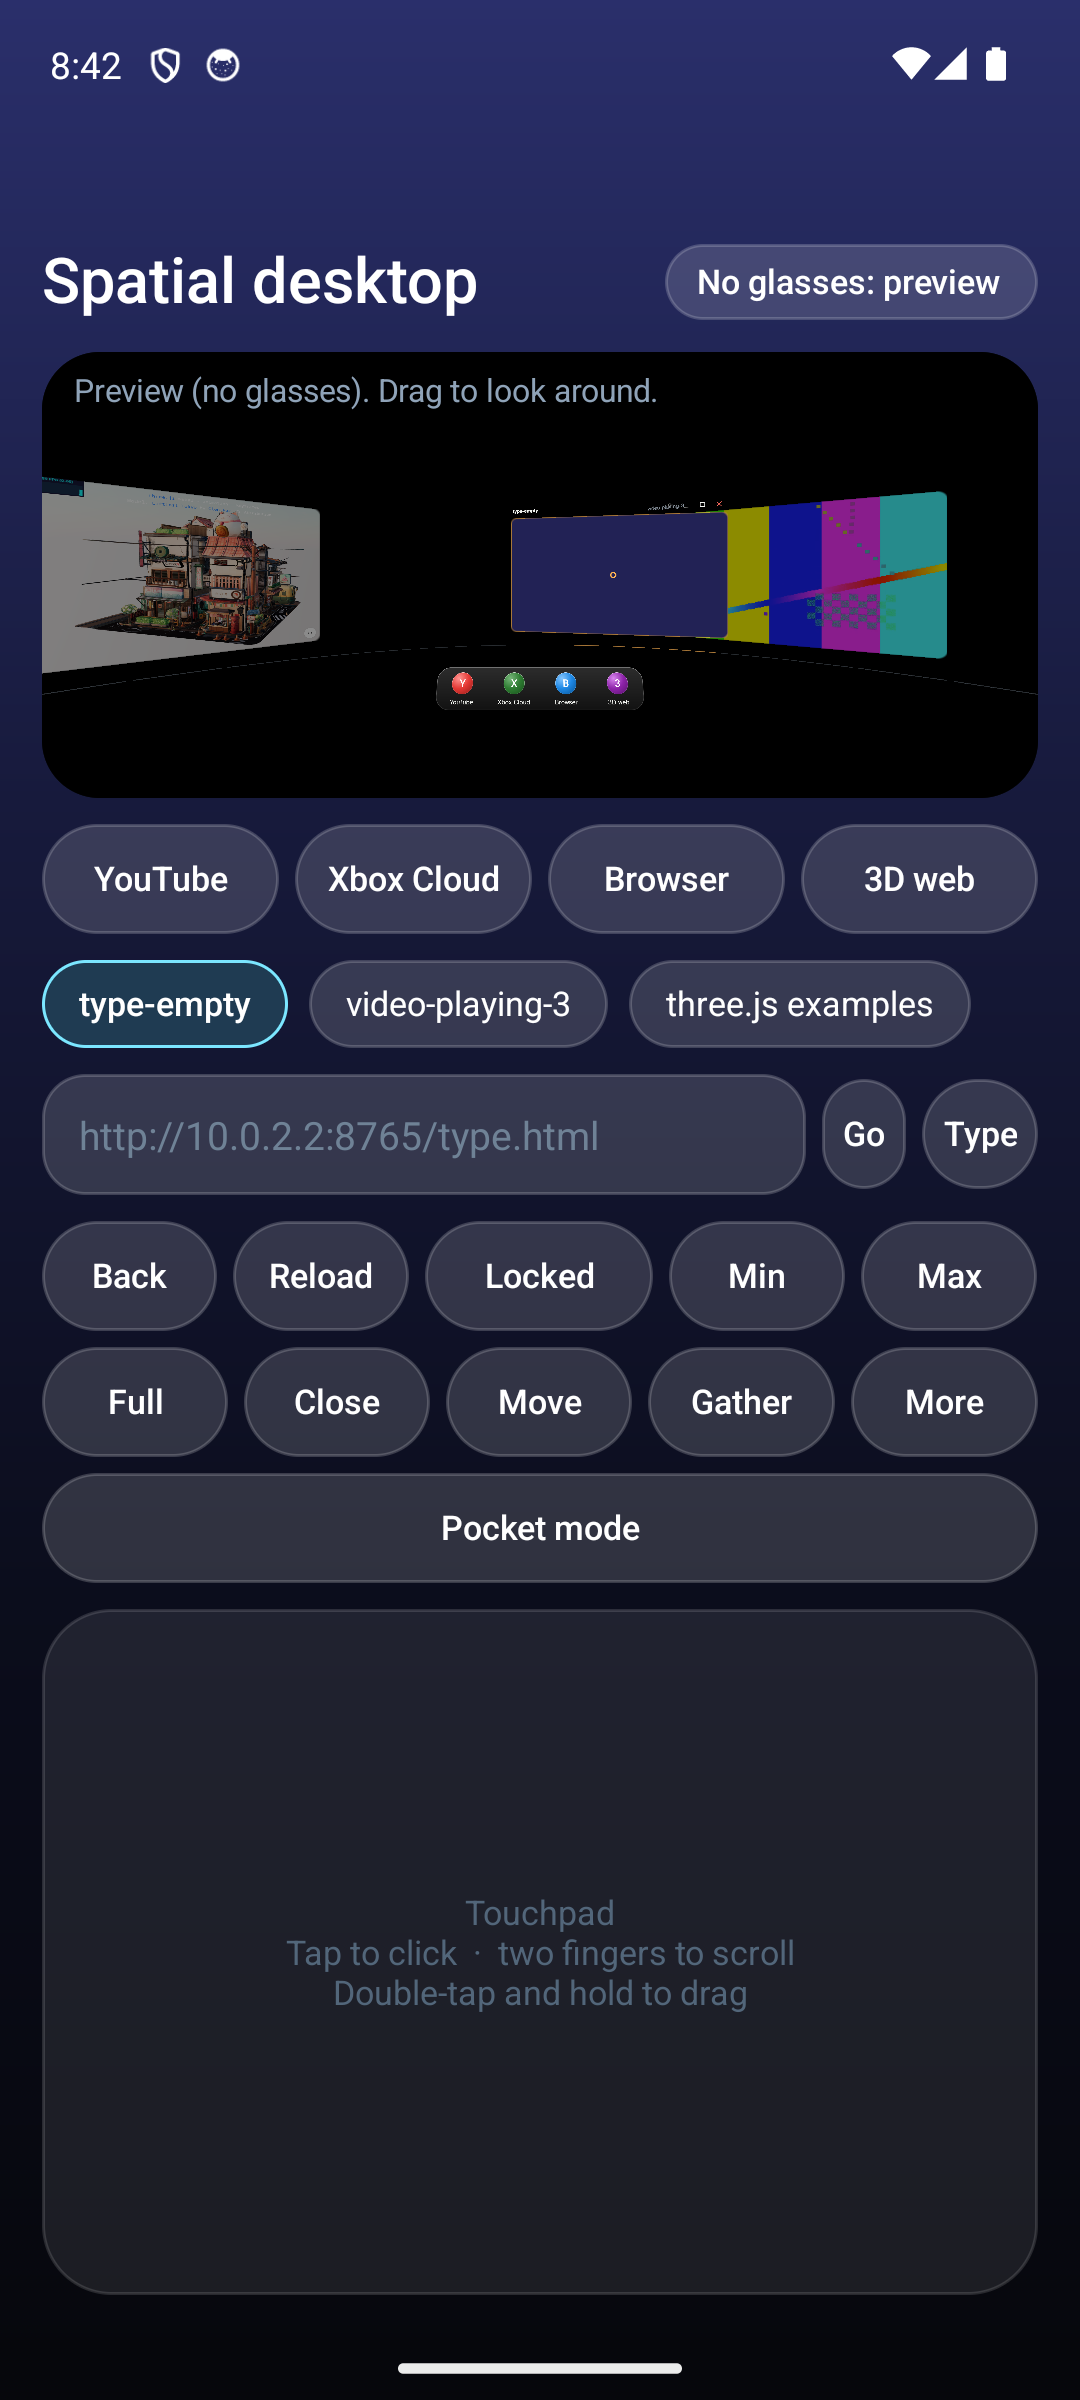
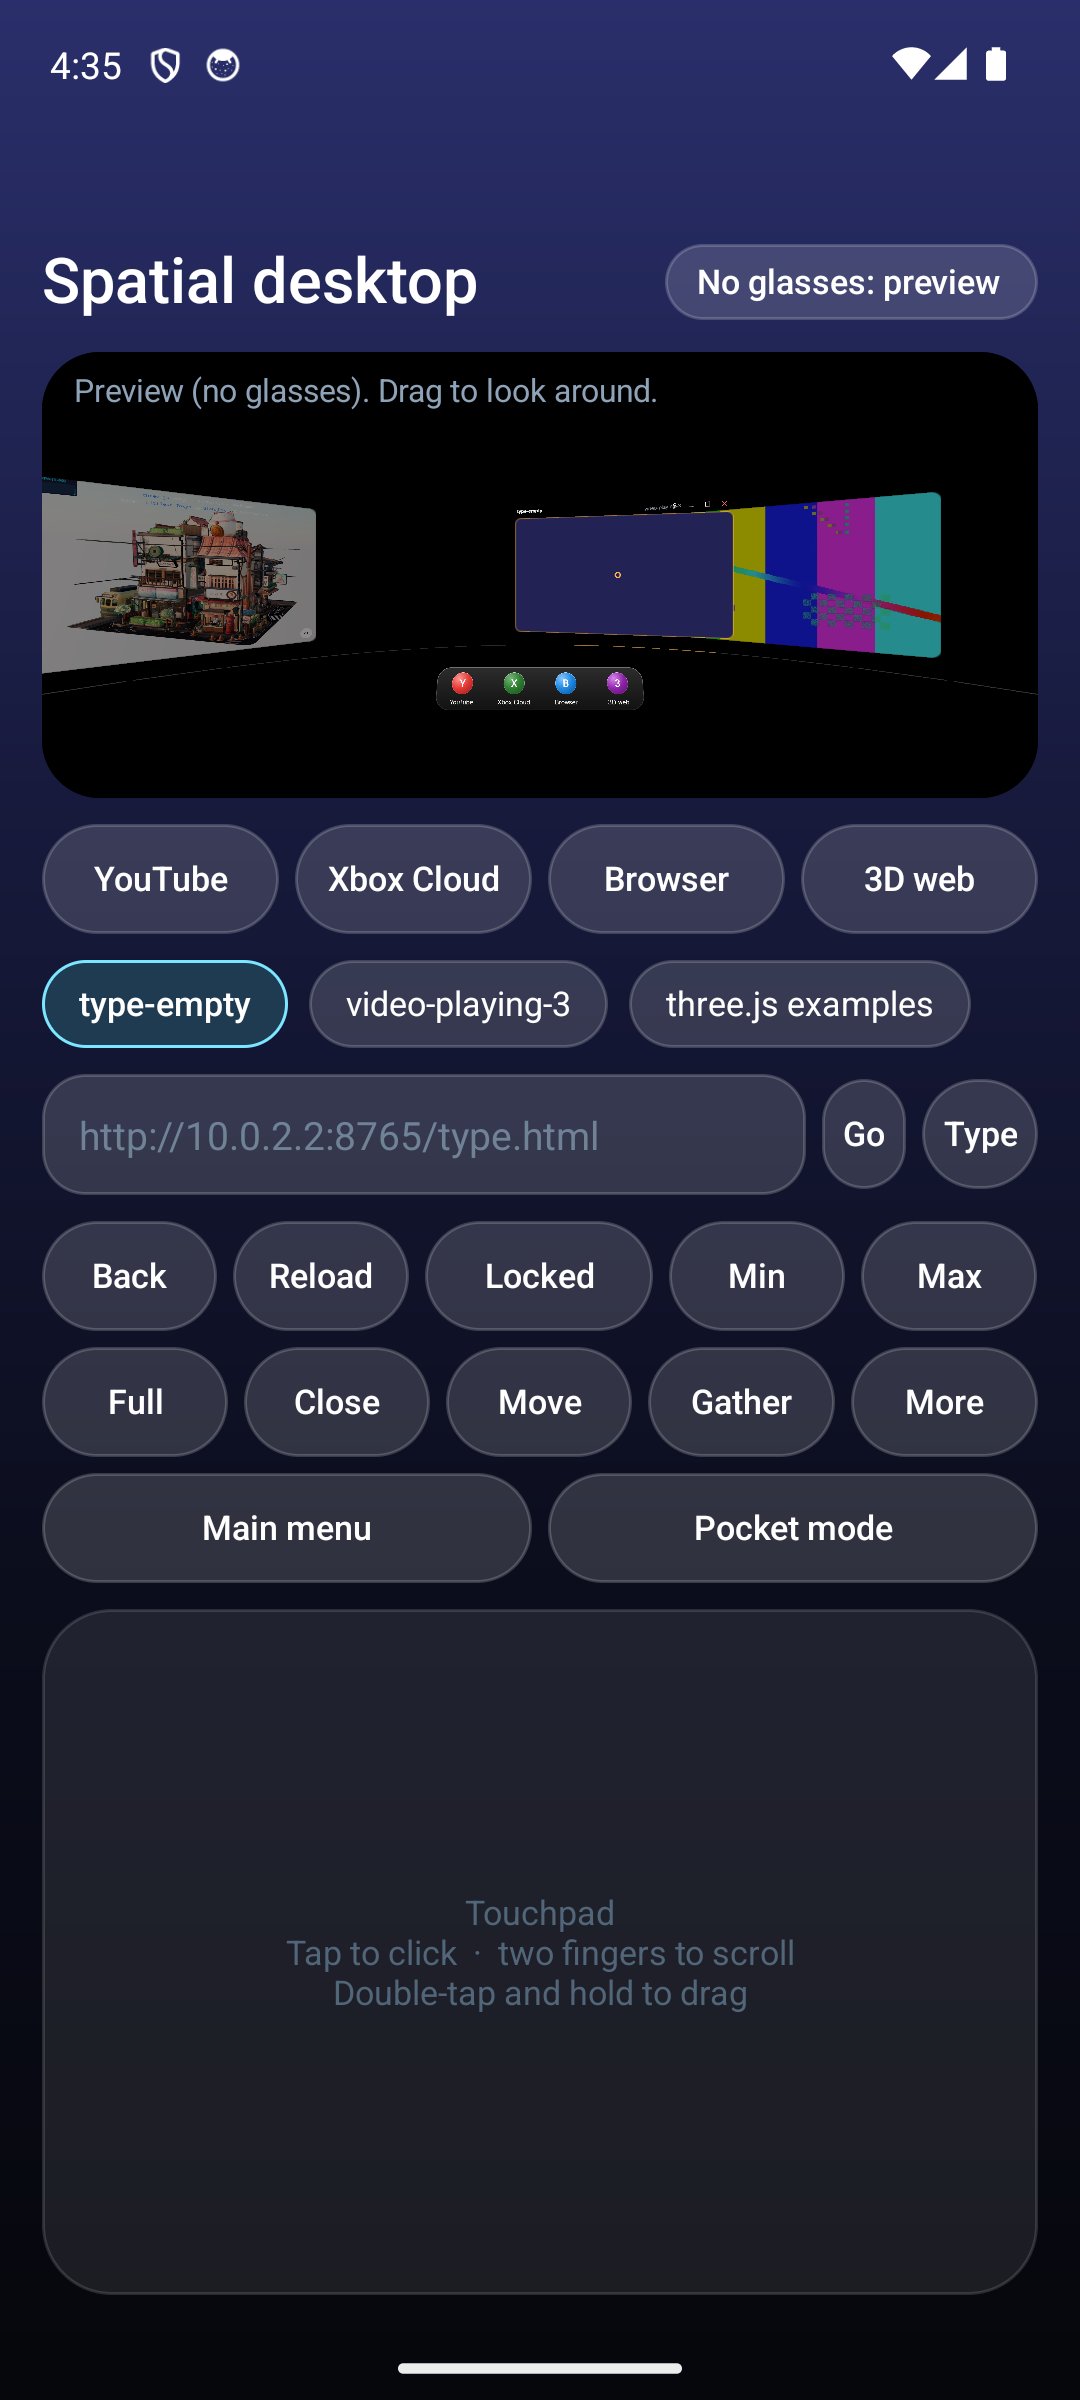
Home view: the cursor reaches the title bar, the main menu comes first, a remote's arrows and OK work

diff --git a/app/src/main/java/dev/ultraxr/desktop/DesktopSession.kt b/app/src/main/java/dev/ultraxr/desktop/DesktopSession.kt
@@ -173,17 +173,59 @@ class DesktopSession(private val activity: Activity) {
         val w = desktop.focused ?: return
         if (moveMode) { desktop.move(w.id, -dx * 1.2, -dy * 1.2); return }
         val c = cursors.getOrPut(w.id) { doubleArrayOf(0.5, 0.5) }
-        c[0] = (c[0] + dx * 0.9).coerceIn(0.0, 1.0); c[1] = (c[1] + dy * 0.9 * w.aspect).coerceIn(0.0, 1.0)
+        // The cursor can leave the page upwards onto the window's title bar, where a tap presses the button under
+        // it (close, maximise, minimise, lock). A press that began in the page stays in the page.
+        val top = if (pressed || desktop.fullscreenId == w.id) 0.0 else -barSpan(w)
+        c[0] = (c[0] + dx * 0.9).coerceIn(0.0, 1.0); c[1] = (c[1] + dy * 0.9 * w.aspect).coerceIn(top, 1.0)
         if (pressed) web[w.id]?.touch(MotionEvent.ACTION_MOVE, c[0], c[1])
     }
+    /** The title bar's height as a fraction of the window's: the cursor's v runs from minus this to 1. */
+    private fun barSpan(w: DesktopWindow) = w.shownBarHeight() / w.shownHeight()
     fun padTap() {
         padTouchNs = System.nanoTime()
         if (desktop.visible.isEmpty()) { if (homeHover >= 0) activateHome(homeHover); return }
-        val w = desktop.focused ?: return; val c = cursors.getOrPut(w.id) { doubleArrayOf(0.5, 0.5) }; web[w.id]?.tap(c[0], c[1])
+        val w = desktop.focused ?: return; val c = cursors.getOrPut(w.id) { doubleArrayOf(0.5, 0.5) }
+        if (c[1] < 0.0) { Desktop.barButtonAt(c[0])?.let { barAction(w.id, it); onLookPress?.invoke() }; return }
+        web[w.id]?.tap(c[0], c[1])
+    }
+
+    /** The main menu: every window is put away (not closed) and the home's icons show. */
+    fun showHome() { for (w in desktop.windows) if (!w.minimized) desktop.minimize(w.id); changed() }
+
+    // ---- a remote's or a keyboard's arrow keys
+    private var keyHover = -1; private var keyNs = 0L
+    private val KEY_HOLD_NS = 8_000_000_000L
+    /** One step of the arrow keys: across the home's icons when the home shows, else the cursor of the focused window. */
+    fun keyMove(dx: Int, dy: Int) {
+        val now = System.nanoTime()
+        if (desktop.visible.isEmpty()) {
+            val n = homeItems.size; if (n == 0) return
+            val cs = HomeGrid.centres(n)
+            val from = if (keyHover in 0 until n && now - keyNs < KEY_HOLD_NS) keyHover else if (homeHover >= 0) homeHover else -1
+            if (from < 0) { keyHover = 0; keyNs = now; return }
+            // the nearest icon in that direction: the step along it counts once, the step across it three times
+            var best = -1; var bestD = Float.MAX_VALUE
+            for (i in 0 until n) {
+                if (i == from) continue
+                val ax = cs[i][0] - cs[from][0]; val ay = cs[i][1] - cs[from][1]
+                val along = ax * dx + ay * dy; val across = Math.abs(ax * dy) + Math.abs(ay * dx)
+                if (along <= 1f) continue
+                val d = along + across * 3f
+                if (d < bestD) { bestD = d; best = i }
+            }
+            if (best >= 0) keyHover = best else keyHover = from
+            keyNs = now
+        } else padMove(dx * 0.06, dy * 0.06 / (desktop.focused?.aspect ?: 1.0), false)
+    }
+    /** The remote's OK key. */
+    fun keySelect() {
+        if (desktop.visible.isEmpty()) { val now = System.nanoTime(); if (keyHover >= 0 && now - keyNs < KEY_HOLD_NS) { activateHome(keyHover); return } }
+        padTap()
     }
     fun padPress(down: Boolean) {
         val w = desktop.focused ?: return; val c = cursors.getOrPut(w.id) { doubleArrayOf(0.5, 0.5) }
         if (down == pressed) return
+        if (down && c[1] < 0.0) return      // on the title bar: buttons answer to a tap
         pressed = down; web[w.id]?.touch(if (down) MotionEvent.ACTION_DOWN else MotionEvent.ACTION_UP, c[0], c[1])
     }
     fun padScroll(dx: Double, dy: Double, moveMode: Boolean) {
@@ -230,6 +272,8 @@ class DesktopSession(private val activity: Activity) {
             val h = Geometry.planeHit(origin, forward, Geometry.centre(anchor, yaw, 0.0, DesktopRenderer.HOME_DISTANCE), yaw, 0.0)
             if (h != null) hover = HomeGrid.hit(h[0], h[1], homeItems.size) ?: -1
         }
+        // an icon chosen with the arrow keys stays chosen for a while, wherever the head points
+        if (showHome && keyHover in homeItems.indices && nowNs - keyNs < KEY_HOLD_NS) hover = keyHover
         homeHover = hover
         if (showHome && handGestures) {
             val pinching = Tracking.hands.any { it.pinching }
@@ -241,7 +285,9 @@ class DesktopSession(private val activity: Activity) {
         var looked: String? = null
         if (lookToPress && !full && nowNs - padTouchNs > 700_000_000L && !handDown) {
             val tile = if (showHome) null else Rail.dockTile(origin, forward, anchor, desktop.followAnchor.yaw, HomeApps.all.size)
-            if (showHome && hover >= 0) { looked = "home:$hover"; ringDistance = DesktopRenderer.HOME_DISTANCE }
+            // an icon opens by looking only when there is a head to look with (not in the phone preview) and it was not chosen with the keys
+            if (showHome && hover >= 0 && tracked && !(keyHover == hover && nowNs - keyNs < KEY_HOLD_NS)) { looked = "home:$hover"; ringDistance = DesktopRenderer.HOME_DISTANCE }
+            else if (showHome) { }
             else if (tile != null) { looked = "dock:$tile"; ringDistance = Rail.DOCK_DISTANCE }
             else {
                 val g = desktop.hit(origin, forward, anchor)

diff --git a/app/src/main/java/dev/ultraxr/ui/DesktopActivity.kt b/app/src/main/java/dev/ultraxr/ui/DesktopActivity.kt
@@ -112,6 +112,8 @@ class DesktopActivity : Activity() {
         if (intent.getBooleanExtra(EXTRA_STEREO_PREVIEW, false) && applicationInfo.flags and ApplicationInfo.FLAG_DEBUGGABLE != 0) session.forceStereo = true
         build()
         session.start()
+        // The home view opens on its main menu; windows from last time are put away, not closed (the phone lists them).
+        session.showHome()
         refreshChips()
     }
 
@@ -257,7 +259,11 @@ class DesktopActivity : Activity() {
         c2.add(small("Gather") { session.gather() }, 0, weight = 1f, startDp = 6)
         c2.add(small("More") { settings() }, 0, weight = 1f, startDp = 6)
         root.add(c2, topDp = 6)
-        root.add(small("Pocket mode") { enterPocket() }.apply { contentDescription = "Pocket mode" }, topDp = 6)
+        // one row for both, so the preview below keeps its place
+        val c3 = Ui.row(this)
+        c3.add(small("Main menu") { session.showHome() }.apply { contentDescription = "Main menu" }, 0, weight = 1f)
+        c3.add(small("Pocket mode") { enterPocket() }.apply { contentDescription = "Pocket mode" }, 0, weight = 1f, startDp = 6)
+        root.add(c3, topDp = 6)
 
         // touchpad
         val pad = TextView(this).apply {
@@ -364,6 +370,18 @@ class DesktopActivity : Activity() {
 
     /** Game controllers and keyboards reach the focused page, so the Gamepad API works there. */
     override fun dispatchKeyEvent(event: KeyEvent): Boolean {
+        // A remote: the arrows step across the main menu's icons, or move the cursor in a window; OK selects; Menu
+        // shows the main menu. A full keyboard's arrows and a game controller's pad still reach the page in a window.
+        val arrows = when (event.keyCode) { KeyEvent.KEYCODE_DPAD_LEFT -> -1 to 0; KeyEvent.KEYCODE_DPAD_RIGHT -> 1 to 0; KeyEvent.KEYCODE_DPAD_UP -> 0 to -1; KeyEvent.KEYCODE_DPAD_DOWN -> 0 to 1; else -> null }
+        val ok = event.keyCode == KeyEvent.KEYCODE_DPAD_CENTER || event.keyCode == KeyEvent.KEYCODE_ENTER || event.keyCode == KeyEvent.KEYCODE_NUMPAD_ENTER || event.keyCode == KeyEvent.KEYCODE_BUTTON_A
+        if (!urlBox.hasFocus() && pocket == null) {
+            val onHome = session.desktop.visible.isEmpty()
+            val fullKeyboard = event.device?.keyboardType == android.view.KeyCharacterMap.ALPHA
+            val gamepad = event.source and InputDevice.SOURCE_GAMEPAD == InputDevice.SOURCE_GAMEPAD || event.source and InputDevice.SOURCE_JOYSTICK == InputDevice.SOURCE_JOYSTICK
+            if (event.keyCode == KeyEvent.KEYCODE_MENU) { if (event.action == KeyEvent.ACTION_UP) session.showHome(); return true }
+            if (arrows != null && (onHome || (!fullKeyboard && !gamepad))) { if (event.action == KeyEvent.ACTION_DOWN) session.keyMove(arrows.first, arrows.second); return true }
+            if (ok && (onHome || (!fullKeyboard && !gamepad && event.keyCode == KeyEvent.KEYCODE_DPAD_CENTER))) { if (event.action == KeyEvent.ACTION_UP) session.keySelect(); return true }
+        }
         // A hardware keyboard types into the focused window, unless the address box is being used.
         if (!urlBox.hasFocus() && event.keyCode != KeyEvent.KEYCODE_BACK && !KeyEvent.isGamepadButton(event.keyCode)
             && event.keyCode != KeyEvent.KEYCODE_VOLUME_DOWN && event.keyCode != KeyEvent.KEYCODE_VOLUME_UP && (event.source == 0 || event.source and InputDevice.SOURCE_KEYBOARD == InputDevice.SOURCE_KEYBOARD)

diff --git a/tools/ui-automation/desktop_test.py b/tools/ui-automation/desktop_test.py
@@ -180,7 +180,14 @@ def main():
     uia.sh("input keyevent KEYCODE_HOME"); time.sleep(1.5); uia.sh("am force-stop %s" % pkg); time.sleep(1)
     uia.sh("am start -n %s/.ui.LauncherActivity --ez desktop true" % pkg); time.sleep(7)
     s = wait(lambda s: len(s) == len(before), 20)
-    after = sorted((w["id"], round(w["yaw"]), w["minimized"], w["follow"], round(w["width"], 1)) for w in s)
+    check("it opens on the main menu, with the windows of last time put away", bool(s) and all(w["minimized"] for w in s), str([w["minimized"] for w in s or []]))
+    # bring them back from their chips on the phone, as the owner would
+    for _ in range(len(before)):
+        chip = next((n for n in uia.nodes() if n["text"].startswith("▁")), None)
+        if chip is None: break
+        x1, y1, x2, y2 = chip["box"]; uia.sh("input tap %d %d" % ((x1 + x2) // 2, (y1 + y2) // 2)); time.sleep(0.8)
+    s = wait(lambda s: len(s) == len(before) and not any(w["minimized"] for w in s), 10)
+    after = sorted((w["id"], round(w["yaw"]), w["minimized"], w["follow"], round(w["width"], 1)) for w in (s or []))
     check("the layout is restored after the app is closed and reopened", before == after, "%s vs %s" % (before, after))
     s = wait(lambda s: all(w["title"] not in ("", "Window") for w in s), 30)
     check("the restored windows reload their pages", all(w["title"] for w in s), str([w["title"] for w in s]))

diff --git a/docs/RELEASE_NOTES.md b/docs/RELEASE_NOTES.md
@@ -25,3 +25,17 @@ Ultra XR for Pixel + XREAL Air 2 Ultra.
 - Emulator: enter a game from its card, hold Leave, enter again: 3 of 3 checks both times, the touchpad service
   bound again after the restart. Not yet done on the phone.
 - The home view and the launcher's glasses picture try again for a few seconds when their window is refused.
+
+## Home view: the cursor reaches the title bar, the main menu comes first, arrow keys (18 November 2026)
+
+- The touchpad's cursor could not leave a window's page, so the close, maximise and minimise buttons above it
+  could only be pressed by looking at them. The cursor now moves up onto the title bar and a tap presses the
+  button under it.
+- The home view opens on its main menu (the icons: games, Room check, web apps). Windows from last time are put
+  away, not closed; the phone lists them. A "Main menu" button on the phone, and a remote's Menu key, go back to it.
+- A remote's arrows step across the main menu's icons and OK opens the chosen one; in a window they move the
+  cursor and OK taps. A full keyboard's arrows and a game controller still reach the page.
+- An icon opens by looking only while the head is tracked (the phone preview no longer opens the middle icon by
+  itself), and not while it is chosen with the arrow keys.
+- The dock under a window still holds the four web shortcuts only. Android apps are not shown in the glasses:
+  the home view draws web pages and starts WebXR games; it does not host other apps' windows.
